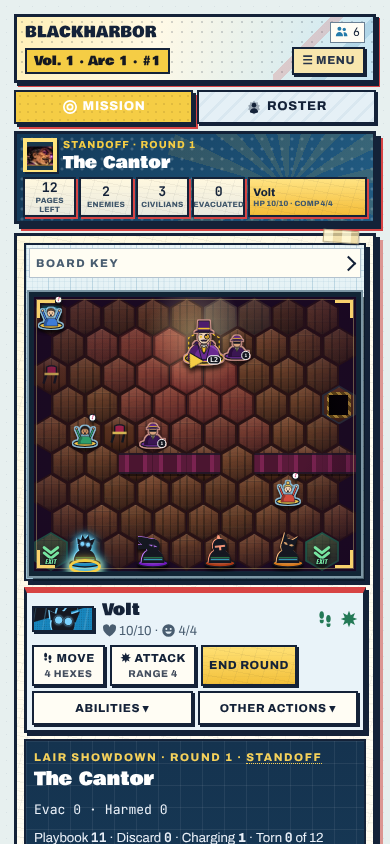
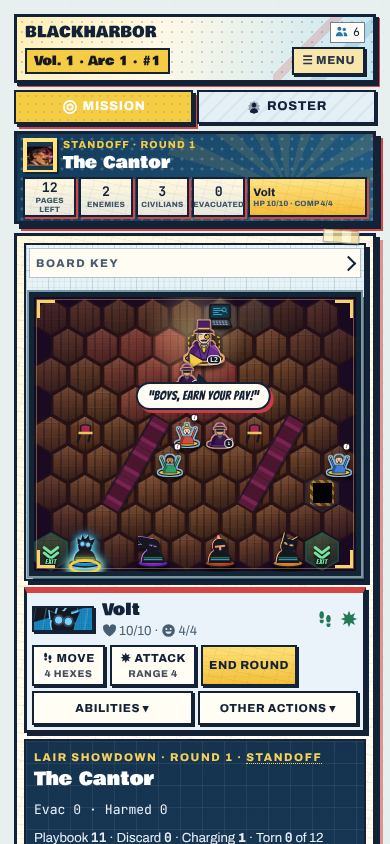
Release start-screen tips choice from preview (PR #22)
'I want a guide.' turns pop-up tips on, 'I know how to play' turns them off; Tips switch in the Game menu next to Story. Copied guide.js and save-menu.js from Blackharbor-preview main.

Claude-Session: https://claude.ai/code/session_01LRZhx1fawpezbGV1R1dTB3

diff --git a/src/ui/guide.js b/src/ui/guide.js
@@ -21,7 +21,7 @@ function guideModal(){const g=S.guide;if(!g||S.tut||S.phase!=='hq'||S.view==='cr
     <p class="small" style="margin:0">A volume is a full campaign: ${ARCS} arcs of ${ISSUES_PER_ARC} issues, then an event comic finale. Each issue goes like this:</p>
     <ol class="gflow"><li><span><b>Recruit four heroes.</b> Every mission sends a party of 4.</span></li><li><span><b>Build your base.</b> The Workshop is ready for crafting. Other facilities add healing, resources and new options.</span></li><li><span><b>Gear up.</b> Equip items from the armory, or craft new ones from villain salvage.</span></li><li><span><b>Check the roster.</b> Make sure the right four are in the party.</span></li><li><span><b>Investigate a villain</b> from the Villains tab. Clues decide how the fight starts and reveal their playbook.</span></li><li class="later"><span><b>Showdown in the lair</b>, then the aftermath: XP, salvage and injuries. Villains you leave alone keep scheming and grow stronger each arc.</span></li></ol>
     <p class="small muted" style="margin:0">Long-press any stat, item or keyword for details.</p>
-    <div class="row"><button class="btn pri" data-a="guide:go">Recruit my team</button><button class="btn" data-a="guide:skip">I know how to play</button></div></div></div>`;
+    <div class="row"><button class="btn pri" data-a="guide:go">I want a guide.</button><button class="btn" data-a="guide:skip">I know how to play</button></div></div></div>`;
   const P={base:['Team assembled!','Your four heroes are ready. Your Workshop is already up and running for crafting gear. Next, build up the rest of your base: other facilities give you resources, healing and new options.','Go to base development','hq-base'],
     gear:['Base online!','Time to gear up. The armory has a starter locker: use Equip to… to hand items straight to a hero, or craft new gear in the Workshop.','Go to the workshop','hq-ws'],
     roster:['Suited up!','Before you investigate a villain, look over your roster. Check each hero\'s stats, power and gear, and make sure the right four are in the party.','Open the roster','roster']}[g.pop];
@@ -30,7 +30,7 @@ function guideModal(){const g=S.guide;if(!g||S.tut||S.phase!=='hq'||S.view==='cr
     <p class="small" style="margin:0">${P[1]}</p><div class="row"><button class="btn pri" data-a="guide:open:${P[3]}">${P[2]}</button><button class="btn" data-a="guide:close">Not now</button></div></div></div>`}
 
 /* button actions (data-a="name:p1:p2:p3"); return NO_RENDER to skip the render after it */
-ACT.guide=(p1,p2)=>{const g=S.guide;if(!g)return;if(p1==='skip'){S.guide=null;return;}if(p1==='go'){g.s=1;g.pop=null;return;}if(p1==='close'){g.pop=null;return;}
+ACT.guide=(p1,p2)=>{const g=S.guide;if(!g)return;if(p1==='skip'){if(g.s===0)S.tipsOff=true;S.guide=null;return;}if(p1==='go'){S.tipsOff=false;g.s=1;g.pop=null;return;}if(p1==='close'){g.pop=null;return;}
       if(p1==='next'){if(g.s===2){g.s=3;g.pop='gear'}else if(g.s===3){g.s=4;g.pop='roster'}return;}
       if(p1==='open'){g.pop=null;S.ui=S.ui||{};if(p2==='roster'){S.view='roster';S.ui['ro-party']=S.ui['ro-bench']=true;roster().forEach(h=>S.ui['h-'+h.id]=true)}else{S.view=p2.startsWith('vl-')?'villains':'hq';S.ui[p2]=true}
         render();const t=p2==='roster'?null:document.querySelector(`[data-cid="${p2}"]`);if(t)t.scrollIntoView({block:'start',behavior:RM?'auto':'smooth'});else scrollTo(0,0);return NO_RENDER;}

diff --git a/src/ui/save-menu.js b/src/ui/save-menu.js
@@ -177,12 +177,18 @@ function bhMenuDiffHtml(){
   const d=diffOf();
   return '<b>'+d.n+'</b><span class="small muted">'+d.h+'</span>';
 }
-function bhMenuStoryTxt(){return S.storyOff?'Story is off: turn on':'Story is on: turn off'}
-function bhMenuToggleStory(b){S.storyOff=!S.storyOff;if(!S.story)S.story={q:[],seen:{}};b.textContent=bhMenuStoryTxt();b.setAttribute('aria-pressed',String(!S.storyOff));render()}
 function bhMenuSetDiff(v){
   if(!S)return;
   S.diff=diffClamp(v);
   const out=document.getElementById('bh-diff-out');if(out)out.innerHTML=bhMenuDiffHtml();
+  render();
+}
+function bhMenuStoryTxt(){return S.storyOff?'Story is off: turn on':'Story is on: turn off'}
+function bhMenuToggleStory(b){S.storyOff=!S.storyOff;if(!S.story)S.story={q:[],seen:{}};b.textContent=bhMenuStoryTxt();b.setAttribute('aria-pressed',String(!S.storyOff));render()}
+function bhMenuTipsTxt(){return S.tipsOff?'Tips are off: turn on':'Tips are on: turn off'}
+function bhMenuToggleTips(b){
+  S.tipsOff=!S.tipsOff;if(!S.tipsOff)S.tipAt=0;
+  b.textContent=bhMenuTipsTxt();b.setAttribute('aria-pressed',String(!S.tipsOff));
   render();
 }
 function bhMenuArm(key){
@@ -245,6 +251,10 @@ function bhSaveOpen(){
     '<div class="bh-diff-ticks small" aria-hidden="true">'+DIFFS.map(d=>'<span>'+d.n+'</span>').join('')+'</div>',
     '<div id="bh-diff-out" class="bh-diff-out" aria-live="polite">'+bhMenuDiffHtml()+'</div>',
     '<p class="small muted">Change it any time. It takes effect at once, even mid-fight.</p>',
+    '<hr class="bh-menu-rule">',
+    '<div class="eyebrow">Pop-up tips</div>',
+    '<button type="button" class="btn" data-bh-tips aria-pressed="'+!S.tipsOff+'">'+bhMenuTipsTxt()+'</button>',
+    '<p class="small muted">Explains each mechanic the first time it shows up.</p>',
     '<hr class="bh-menu-rule">',
     '<div class="eyebrow">Story</div>',
     '<button type="button" class="btn" data-bh-story aria-pressed="'+!S.storyOff+'">'+bhMenuStoryTxt()+'</button>',
@@ -350,12 +360,13 @@ function bhSaveRestore(){
   }catch(e){bhSaveUIStatus('Previous backup is invalid: '+e.message,true)}
 }
 document.addEventListener('click',e=>{
-  const b=e.target.closest('[data-save-open],[data-bh-arm],[data-bh-guide],[data-bh-story],[data-bh-close],[data-bh-tab],[data-bh-copy],[data-bh-select],[data-bh-check],[data-bh-import],[data-bh-restore]');
+  const b=e.target.closest('[data-save-open],[data-bh-arm],[data-bh-guide],[data-bh-tips],[data-bh-story],[data-bh-close],[data-bh-tab],[data-bh-copy],[data-bh-select],[data-bh-check],[data-bh-import],[data-bh-restore]');
   if(!b||b.disabled)return;
   if(b.hasAttribute('data-save-open')){bhSaveOpen();return}
   if(b.hasAttribute('data-bh-arm')){bhMenuAct(b.dataset.bhArm);return}
-  if(b.hasAttribute('data-bh-guide')){bhMenuClose();bhGuideOpen();return}
+  if(b.hasAttribute('data-bh-tips')){bhMenuToggleTips(b);return}
   if(b.hasAttribute('data-bh-story')){bhMenuToggleStory(b);return}
+  if(b.hasAttribute('data-bh-guide')){bhMenuClose();bhGuideOpen();return}
   if(b.hasAttribute('data-bh-close')){const d=document.getElementById('bh-save-dialog');if(d)d.close();return}
   if(b.hasAttribute('data-bh-tab')){bhSaveTab(b.dataset.bhTab);return}
   if(b.hasAttribute('data-bh-copy')){bhSaveCopy();return}
